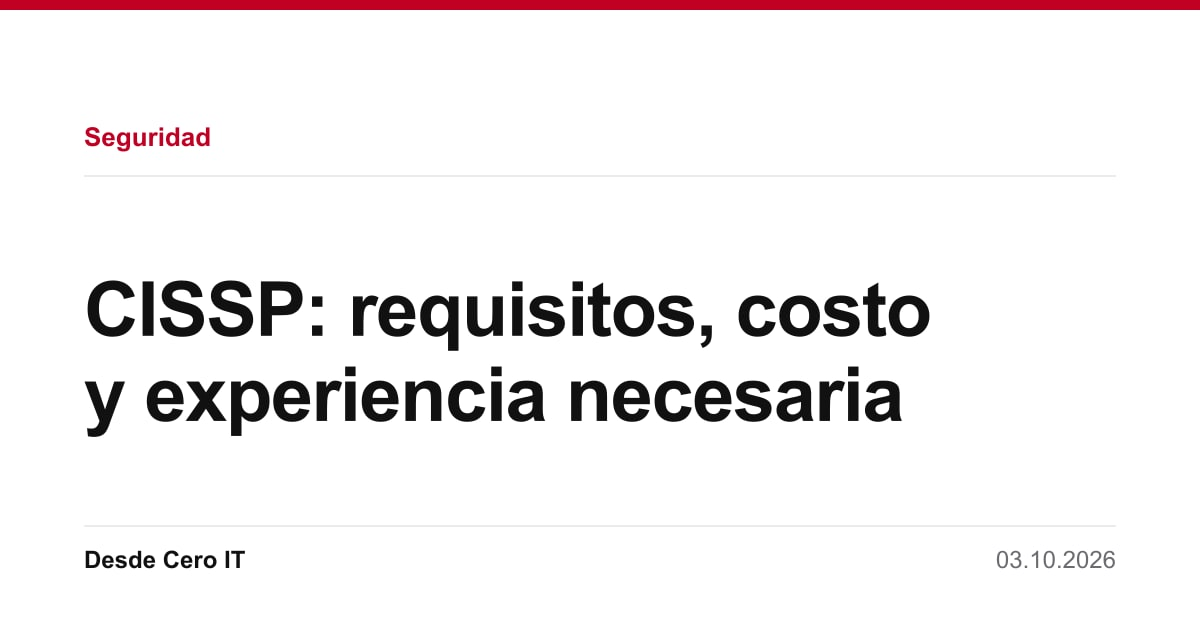
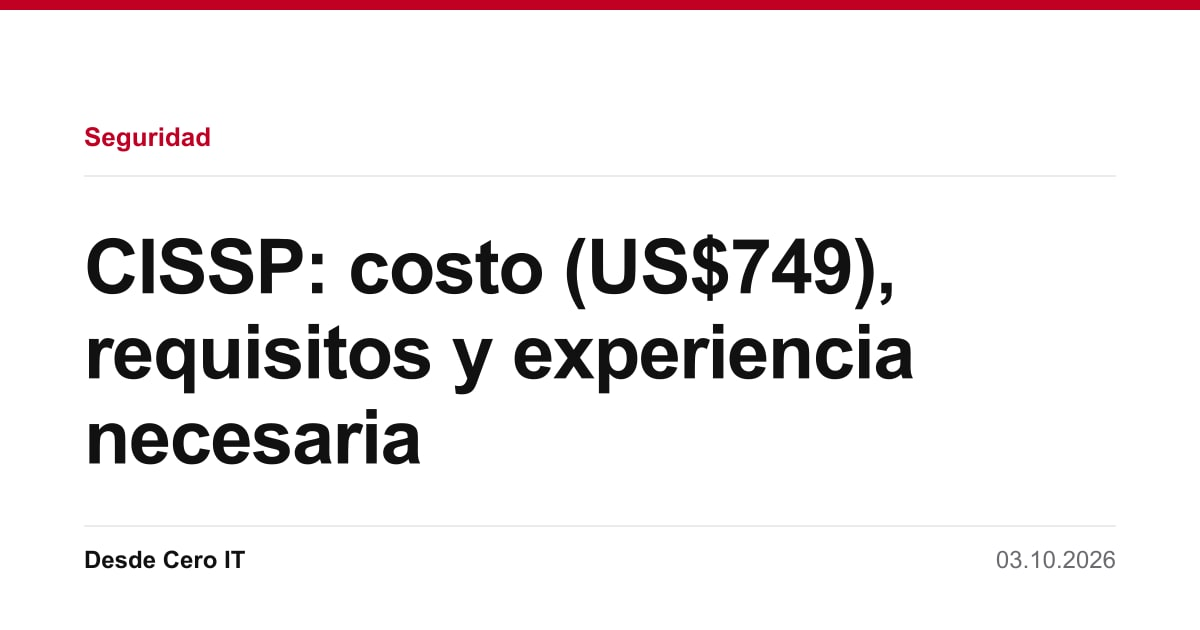
content/ccna-desde-cero-y-precios-en-titulos

Changed region(s): [[0.0617, 0.3619, 0.8017, 0.754]]

diff --git a/src/content/articles/redes/curso-ccna-como-prepararte.md b/src/content/articles/redes/curso-ccna-como-prepararte.md
@@ -1,10 +1,10 @@
 ---
 title: "Curso CCNA: cómo prepararte gratis, barato o con tutor"
-description: "Las tres rutas para preparar el CCNA 200-301 según tu presupuesto, cuánto cuesta el examen y cuánto tiempo lleva llegar listo."
+description: "Cómo preparar el CCNA 200-301 desde cero: tres rutas según tu presupuesto, cuánto cuesta el examen, cuánto tiempo lleva y en qué orden practicar en Packet Tracer."
 keyword: "curso ccna"
 cluster: "redes"
 pubDate: 2026-10-03
-updatedDate: 2026-10-24
+updatedDate: 2026-11-04
 author: "Valentín"
 draft: false
 ---
@@ -78,6 +78,43 @@ Cisco no pide requisitos y aclara que el CCNA asume poco o ningún conocimiento 
 
 Si estás trabajando full-time mientras estudiás, las tácticas de [cómo estudiar una certificación trabajando](/carrera/estudiar-certificacion-trabajando-full-time/) aplican directo acá: el bloque largo del fin de semana conviene reservarlo para Packet Tracer, que es lo que más foco continuo necesita.
 
+## CCNA desde cero
+
+Empecé con redes en ISTEA: las materias Redes 1 y 2 dan una versión resumida del programa del CCNA, y ahí armábamos esquemas de red en Packet Tracer: a lo largo de la cursada simulamos tanto una empresa con sectores como una red con varias sedes. Aclaro algo antes de seguir: no rendí el CCNA. Vi el programa, así que esto no es una receta para aprobar, es cómo lo encararía.
+
+Lo que más me costó fueron las VLAN y el enrutamiento. Y lo que más me sirvió fue entender cómo se comunica todo dentro de una infraestructura, simulándola lo más real posible. Por eso, si arrancara hoy, armaría una sola red en Packet Tracer y la haría crecer tema por tema:
+
+1. **La base.** Modelo OSI, direccionamiento IP y subredes, con la guía de [fundamentos de redes](/redes/fundamentos-de-redes-para-certificarte/).
+2. **Una red chica.** Dos PC y un switch en la misma subred, hasta que se hagan ping.
+3. **VLAN.** Separá esas PC en dos VLAN, como si fueran dos sectores de una empresa, y comprobá que dejan de verse.
+4. **Enrutamiento entre VLAN.** Dale una subred a cada VLAN, sumá un router y hacé que los dos sectores vuelvan a comunicarse.
+5. **Otra sede.** Agregá un segundo router con su propia red, conectá todo con rutas estáticas y después reemplazalas por OSPF.
+
+En cada paso, explicá por qué el ping pasa o por qué no antes de seguir. Son temas que pesan: en la v1.1, Acceso a la red vale el 20% del examen y Conectividad IP, el 25%.
+
+### Qué suele trabar en VLAN
+
+Una VLAN separa redes dentro de un mismo switch, y cada VLAN lleva su propia subred. El examen pide configurarlas entre varios switches, y estos son los errores más comunes al hacerlo:
+
+- **Confundir acceso con trunk.** Un puerto de acceso pertenece a una sola VLAN y es el que va a una PC. Un trunk transporta varias VLAN entre switches, o hacia un router, y marca cada trama con una etiqueta 802.1Q. Si el enlace entre switches queda como acceso, pasa una sola VLAN.
+- **Crear la VLAN en un solo switch.** Si no existe en el otro, o el trunk no la permite, sus equipos no se ven de un switch a otro.
+- **Dejar distinta la VLAN nativa.** Su tráfico viaja sin etiqueta, así que las dos puntas del trunk tienen que coincidir.
+- **Esperar que dos VLAN se hablen solas.** Un switch de capa 2 no las comunica: hace falta un router o un switch de capa 3.
+
+Para revisar, `show vlan brief` muestra qué puerto está en cada VLAN, y `show interfaces trunk`, qué enlaces son trunk y qué VLAN permiten.
+
+### Qué suele trabar en enrutamiento
+
+Acá el examen pide leer la tabla de enrutamiento, configurar rutas estáticas y OSPFv2 de área única. Los tropiezos típicos:
+
+- **El gateway de la PC.** Si falta o está mal, la PC llega a su propia red y a ninguna otra.
+- **El enrutamiento entre VLAN.** Con un solo router se usa una subinterfaz por VLAN, con `encapsulation dot1Q` y la IP que hace de gateway de esa VLAN. El puerto del switch que va al router tiene que ser trunk, y la interfaz física del router, estar activa.
+- **Pensar solo en la ida.** Una ruta estática resuelve un sentido. Si el router del otro lado no sabe volver, el ping falla aunque el paquete haya llegado.
+- **Leer mal la tabla.** Cuando varias rutas coinciden con el destino, gana la de prefijo más largo, es decir, la más específica. Si el prefijo es el mismo, deciden la distancia administrativa y después la métrica.
+- **Vecinos OSPF que no se forman.** Lo primero a revisar es que las dos puntas estén en la misma subred y la misma área, con los mismos temporizadores hello y dead.
+
+Para revisar, `show ip interface brief` muestra el estado y la IP de cada interfaz; `show ip route`, la tabla de enrutamiento, y `show ip ospf neighbor`, los vecinos OSPF.
+
 ## Errores comunes al elegir curso
 
 - **Comprar material de la versión anterior del examen.** Con el cambio a v1.1 hay mucho contenido desactualizado circulando que no lo aclara.
@@ -92,7 +129,7 @@ Creá una cuenta gratuita en Cisco Networking Academy y descargá Packet Tracer 
 ## Fuentes
 
 - [CCNA (Cisco)](https://www.cisco.com/site/us/en/learn/training-certifications/certifications/enterprise/ccna/index.html): requisitos, precio, vigencia y curso oficial.
-- [200-301 CCNA v1.1 (Cisco Learning Network)](https://learningnetwork.cisco.com/s/ccna-exam-topics): dominios, tipos de pregunta y fechas.
+- [200-301 CCNA v1.1 (Cisco Learning Network)](https://learningnetwork.cisco.com/s/ccna-exam-topics): dominios, objetivos, tipos de pregunta y fechas.
 - [Built for What's Next (blog de Cisco)](https://blogs.cisco.com/learning/ai-updates-ccna-ccie-automation): el material gratuito en Cisco U. hasta la v2.0.
 - [Políticas de exámenes de Cisco](https://www.cisco.com/site/us/en/learn/training-certifications/exams/policies.html): los cinco días de espera para volver a rendir.
 - [Cisco Exam Safeguard](https://learningnetwork.cisco.com/s/cisco-exam-safeguard): el reintento incluido.

diff --git a/src/content/articles/redes/fundamentos-de-redes-para-certificarte.md b/src/content/articles/redes/fundamentos-de-redes-para-certificarte.md
@@ -86,7 +86,7 @@ Un primer ejercicio que recomiendo: armar esa topología, asignar subredes disti
 
 Si arrancás de cero absoluto, la ruta gratuita Técnico en Redes de NetAcad cubre esta base en 70 horas y prepara para el [CCST Networking](/redes/ccst-networking-examen/). Si ya la tenés, el [temario del CCNA 200-301](/redes/ccna-200-301-temario/) muestra cuánto pesa cada dominio, y el [mapa de certificaciones Cisco](/redes/certificaciones-cisco-mapa-completo/), hacia dónde sigue el recorrido.
 
-Si todavía estás decidiendo si redes es tu camino, el [roadmap de certificaciones IT](/carrera/roadmap-certificaciones-it/) compara las rutas de soporte, redes, seguridad y cloud.
+Si tu objetivo es el CCNA, la guía de [curso CCNA](/redes/curso-ccna-como-prepararte/) compara las rutas de preparación. Si todavía estás decidiendo si redes es tu camino, el [roadmap de certificaciones IT](/carrera/roadmap-certificaciones-it/) compara las rutas de soporte, redes, seguridad y cloud.
 
 ## Fuentes
 

diff --git a/src/content/articles/redes/ccna-1-2-3-cursos-netacad.md b/src/content/articles/redes/ccna-1-2-3-cursos-netacad.md
@@ -68,7 +68,7 @@ El orden es secuencial por diseño: SRWE da por sabido ITN, y ENSA da por sabido
 
 Con 70 horas por curso, el ritmo real lo define la academia: cada una arma su calendario. Si querés avanzar por tu cuenta antes de anotarte, lo gratuito y a tu ritmo es la ruta Técnico en Redes, que cubre la base previa.
 
-Si querés dimensionar cuánto es eso en la práctica, la estimación general para preparar el CCNA desde cero es de dos a tres meses de estudio enfocado — pero esa cifra asume una preparación intensiva, no el ritmo pausado de una cursada académica.
+Si querés dimensionar cuánto es eso en la práctica, la estimación general para [preparar el CCNA desde cero](/redes/curso-ccna-como-prepararte/#ccna-desde-cero) es de dos a tres meses de estudio enfocado — pero esa cifra asume una preparación intensiva, no el ritmo pausado de una cursada académica.
 
 ## Por dónde arrancar la serie
 

diff --git a/src/content/articles/redes/networking-essentials-cisco.md b/src/content/articles/redes/networking-essentials-cisco.md
@@ -75,7 +75,7 @@ Es el examen al que apuntan los dos formatos: el 100-150, de 50 minutos, US$125 
 
 ### La serie CCNA
 
-Si querés seguir en redes, el paso siguiente en NetAcad es la serie CCNA, que prepara para la certificación de nivel asociado. Qué cubre cada curso está en [CCNA 1, 2 y 3](/redes/ccna-1-2-3-cursos-netacad/).
+Si querés seguir en redes, el paso siguiente en NetAcad es la serie CCNA, que prepara para la certificación de nivel asociado. Qué cubre cada curso está en [CCNA 1, 2 y 3](/redes/ccna-1-2-3-cursos-netacad/), y las otras formas de prepararlo, en la guía de [curso CCNA](/redes/curso-ccna-como-prepararte/).
 
 ### Ciberseguridad
 

diff --git a/src/content/articles/carrera/primer-cv-para-un-puesto-it.md b/src/content/articles/carrera/primer-cv-para-un-puesto-it.md
@@ -1,6 +1,6 @@
 ---
 title: "Cómo armar tu primer CV para un puesto IT"
-description: "Qué poner en el CV cuando no tenés experiencia en tecnología, por qué un proyecto propio pesa más que una lista de intereses y qué hacer si no tenés nada para mostrar."
+description: "Qué poner en el CV sin experiencia en tecnología, por qué un proyecto propio pesa más que una lista de intereses y qué hacer si todavía no hay nada para mostrar."
 keyword: "cómo armar un CV para IT sin experiencia"
 cluster: "carrera"
 pubDate: 2026-10-03

diff --git a/src/content/articles/cloud/aws-o-azure-cual-elegir.md b/src/content/articles/cloud/aws-o-azure-cual-elegir.md
@@ -1,6 +1,6 @@
 ---
 title: "AZ-900 vs AWS Cloud Practitioner: cuál elegir primero"
-description: "AZ-900 vs AWS Cloud Practitioner lado a lado: precio, duración, puntaje, idiomas y vigencia, y cómo decidir cuál sacar primero según dónde buscás trabajo."
+description: "AZ-900 vs AWS Cloud Practitioner lado a lado: precio, duración, puntaje, idiomas y vigencia, y cómo decidir cuál sacar primero según dónde quieras trabajar."
 keyword: "az 900 vs aws cloud practitioner"
 cluster: "cloud"
 pubDate: 2026-10-03

diff --git a/src/content/articles/entrada/como-empezar-en-it-sin-experiencia.md b/src/content/articles/entrada/como-empezar-en-it-sin-experiencia.md
@@ -1,6 +1,6 @@
 ---
 title: "Cómo empezar en IT sin experiencia previa"
-description: "Qué piden realmente las búsquedas de soporte técnico, cómo es una entrevista de entrada y qué certificación conviene cuando arrancás desde cero."
+description: "Qué piden realmente las búsquedas de soporte técnico, cómo es una entrevista de entrada y qué certificación conviene para empezar desde cero."
 keyword: "cómo empezar a trabajar en soporte técnico sin experiencia"
 cluster: "entrada"
 pubDate: 2026-10-03

diff --git a/src/content/articles/redes/ccst-networking-examen.md b/src/content/articles/redes/ccst-networking-examen.md
@@ -1,5 +1,5 @@
 ---
-title: "CCST Networking: examen 100-150, temario y precio"
+title: "CCST Networking: precio (US$125), temario y cómo prepararlo"
 description: "Cómo es el CCST Networking de Cisco: examen 100-150 de 50 minutos, US$125 y en español. Sus seis dominios, la ruta gratuita de NetAcad y si conviene antes del CCNA."
 keyword: "ccst networking"
 cluster: "redes"
